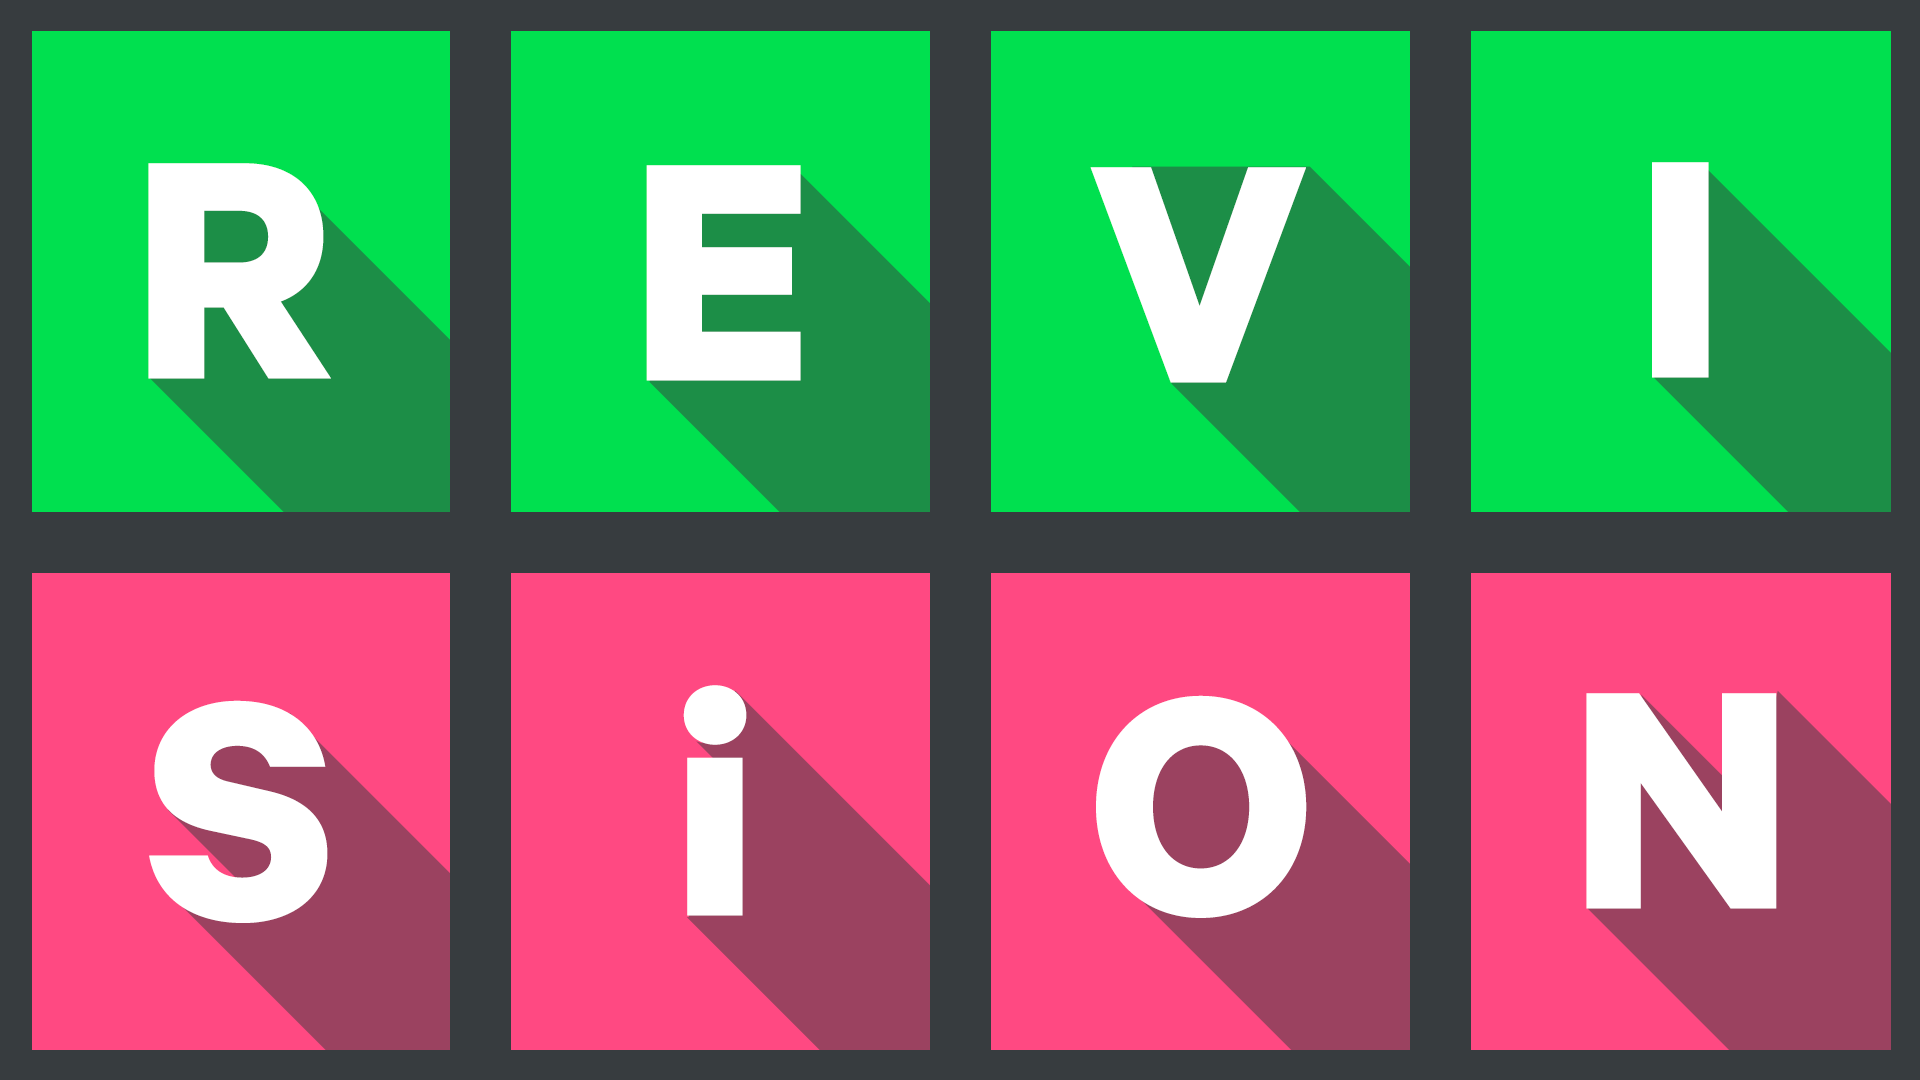
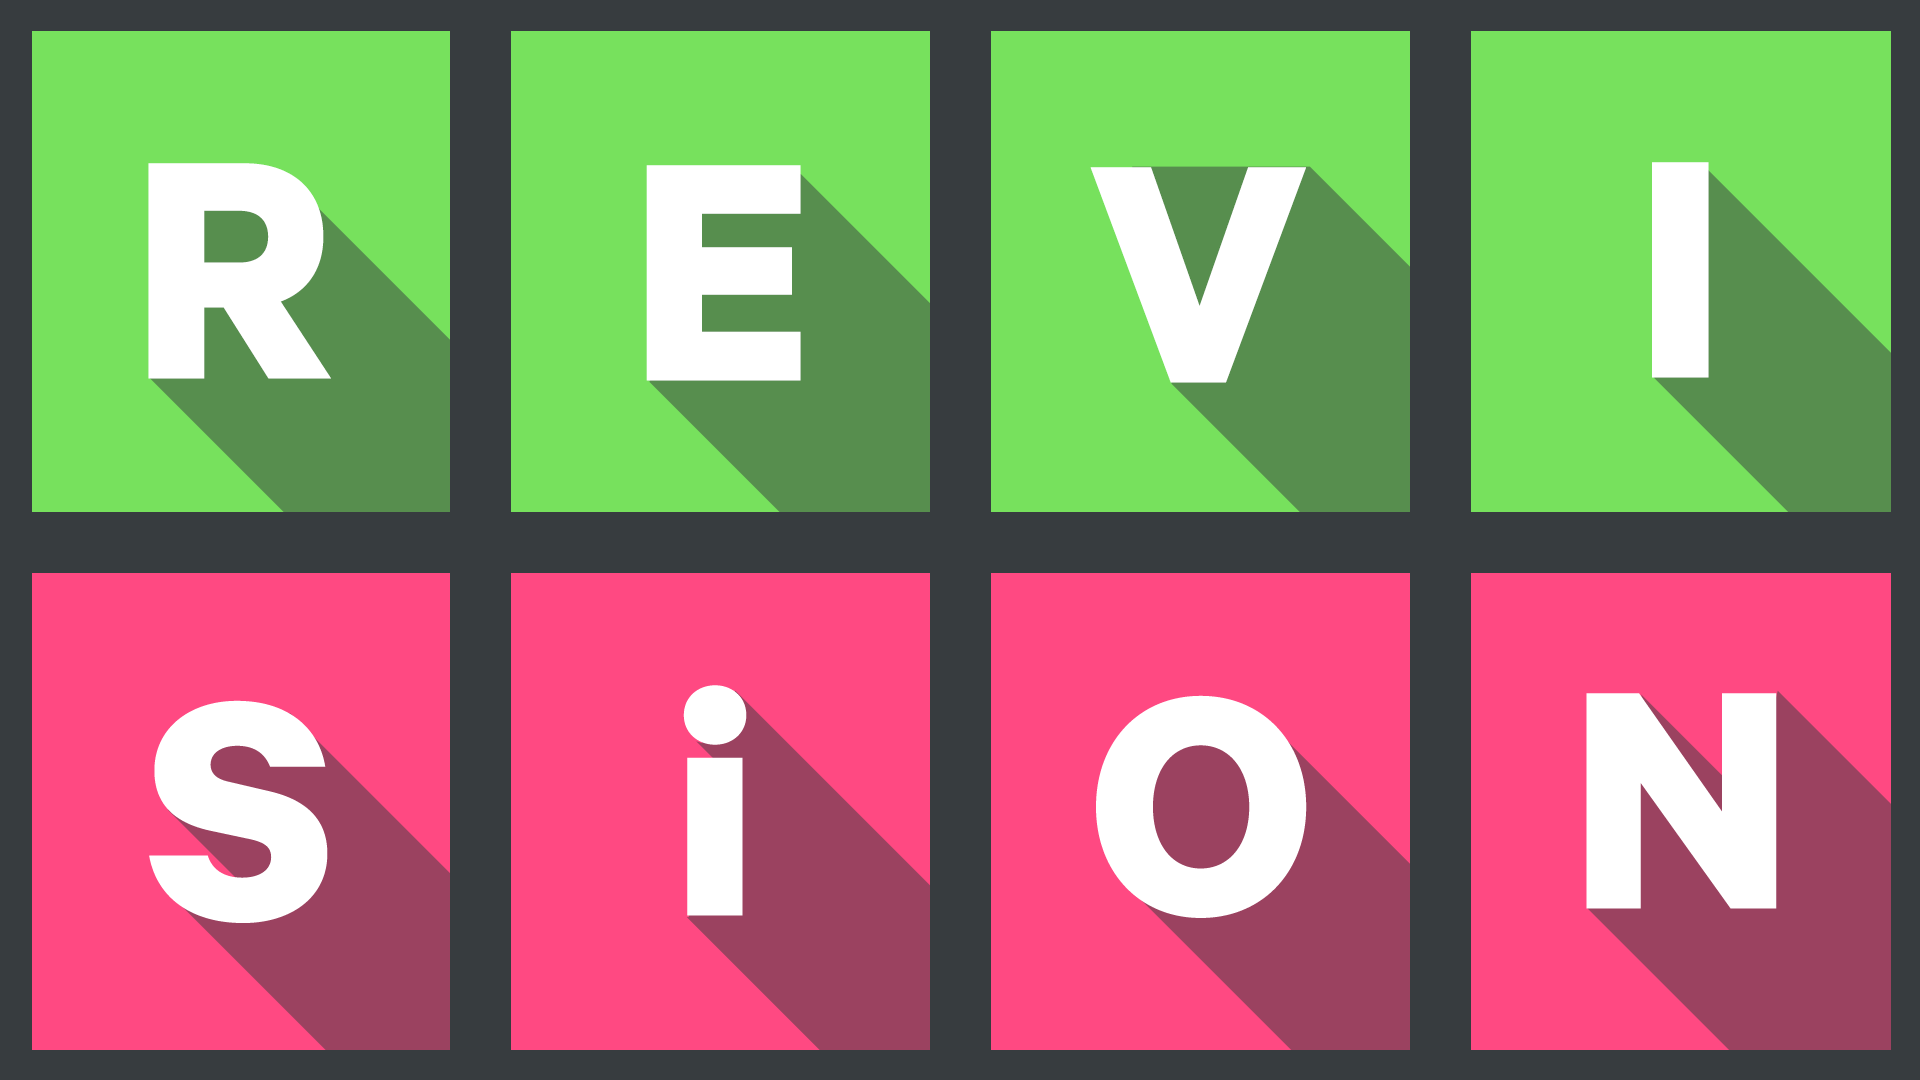
Iterate on schmapple and transition
Also updates testo

diff --git a/src/schmapple.js b/src/schmapple.js
@@ -13,6 +13,18 @@
         }
       });
 
+      this.throb = 0;
+
+      this.cameraX = 0;
+      this.cameraY = 0;
+      this.cameraR = 0;
+      this.cameraDX = 0;
+      this.cameraDY = 0;
+      this.cameraDR = 0;
+      this.cameraDDX = 0;
+      this.cameraDDY = 0;
+      this.cameraDDR = 0;
+
       this.canvas = document.createElement('canvas');
       this.ctx = this.canvas.getContext('2d');
       this.resize();
@@ -108,25 +120,35 @@
         for (let sentence of row) {
           sentence.throb = 0;
 
+          const colorCanvas = document.createElement('canvas');
           const canvas = document.createElement('canvas');
           const ctx = canvas.getContext('2d');
+          const colorCtx = colorCanvas.getContext('2d');
           ctx.font = '40pt brandontext';
           const measurement = ctx.measureText(sentence.text);
           canvas.width = measurement.width;
           canvas.height = TEXT_IMAGE_HEIGHT;
-          ctx.font = '40pt brandontext';
-          ctx.textBaseline = 'middle';
-          ctx.textAlign = 'center';
+          colorCanvas.width = measurement.width;
+          colorCanvas.height = TEXT_IMAGE_HEIGHT;
+          colorCtx.font = ctx.font = '40pt brandontext';
+          colorCtx.textBaseline = ctx.textBaseline = 'middle';
+          colorCtx.textAlign = ctx.textAlign = 'center';
           ctx.clearRect(0, 0, canvas.width, canvas.height);
+          colorCtx.clearRect(0, 0, canvas.width, canvas.height);
           ctx.translate(canvas.width / 2, canvas.height / 2);
+          colorCtx.translate(canvas.width / 2, canvas.height / 2);
           // For future reference
           // const whiteColor = 0xffffff;
           // const grayColor = 0x373c3f;
           // const greenColor = 0x77e15d;
           // const pinkColor = 0xff4982;
-          ctx.fillStyle = '#ff4982';
+          ctx.fillStyle = 'white';
+          //colorCtx.fillStyle = '#ff4982';
+          colorCtx.fillStyle = '#77e15d';
           ctx.fillText(sentence.text, 0, 0);
+          colorCtx.fillText(sentence.text, 0, 0);
           sentence.canvas = canvas;
+          sentence.colorCanvas = colorCanvas;
           accumulatedWidth += canvas.width;
         }
         row.widthWithoutPadding = accumulatedWidth * CANVAS_SCALER;
@@ -134,10 +156,57 @@
         const widthWithPadding = row.widthWithoutPadding + row.length * row.padding;
         row.width = widthWithPadding;
       }
+      this.stabThrob = 0;
+      this.cumulativeStabThrob = 0;
     }
 
     update(frame) {
       this.frame = frame;
+
+      this.throb *= 0.9;
+      if(BEAT) {
+        switch(BEAN) {
+        case 648:
+        case 648 + 6:
+        case 648 + 12:
+        case 648 + 18:
+          this.throb = 1;
+          this.cameraDX = (Math.random() - 0.5) * 5.0;
+          this.cameraDY = (Math.random() - 0.5) * 5.0;
+          this.cameraDR = (Math.random() - 0.5) * 0.1;
+        }
+      }
+
+      if(BEAN >= 648) {
+        this.cameraX += (Math.random() - 0.5) * 2;
+        this.cameraY += (Math.random() - 0.5) * 2;
+      }
+
+      this.cameraDDX = -this.cameraX * 0.1;
+      this.cameraDDY = -this.cameraY * 0.1;
+      this.cameraDDR = -this.cameraR * 0.1;
+      this.cameraDX += this.cameraDDX;
+      this.cameraDY += this.cameraDDY;
+      this.cameraDR += this.cameraDDR;
+      this.cameraDX *= 0.75;
+      this.cameraDY *= 0.75;
+      this.cameraDR *= 0.75;
+      this.cameraX += this.cameraDX;
+      this.cameraY += this.cameraDY;
+      this.cameraR += this.cameraDR;
+
+      this.stabThrob *= 0.95;
+      if(BEAT) {
+        switch(BEAN - 528) {
+        case 0:
+        case 9:
+        case 24:
+        case 24 + 9:
+        case 24 + 9 + 9:
+          this.stabThrob = 1;
+        }
+      }
+      this.cumulativeStabThrob += this.stabThrob;
 
       for (let row of this.texts) {
         row.offset = (row.offset + row.speed) % row.width;
@@ -172,10 +241,22 @@
     render() {
       demo.nm.nodes.bloom.opacity = 0.1;
       this.ctx.fillStyle = '#111';
-      this.ctx.fillRect(0, 0, this.canvas.width, this.canvas.height);
+      this.ctx.fillStyle = '#373c3f';
       this.ctx.save();
+      this.ctx.fillRect(0, 0, this.canvas.width, this.canvas.height);
+      this.ctx.restore();
+      this.ctx.save();
+      const shakeT = lerp(0, 1, (this.frame - FRAME_FOR_BEAN(624)) / (
+        FRAME_FOR_BEAN(624 + 48 - 24) - FRAME_FOR_BEAN(624)));
+      const amount = 2 * easeOut(0, 1, shakeT) * easeIn(1, 0, shakeT);
+      this.ctx.translate(
+        (Math.random() - 0.5) * amount,
+        (Math.random() - 0.5) * amount);
       const alphaMultiplier = Math.max(0.0, Math.min(1.0, (this.frame - 1126) / (1627 - 1126)));
       if (BEAN < 612) {
+        this.ctx.globalAlpha = smoothstep(1, 0,
+            (this.frame - FRAME_FOR_BEAN(600)) / (
+              FRAME_FOR_BEAN(612) - FRAME_FOR_BEAN(600)));
         for (let i = 0; i < this.texts.length; i++) {
           const row = this.texts[i];
           this.ctx.save();
@@ -184,7 +265,7 @@
           for (let j = 0; j < row.length * 2; j++) {
             this.ctx.save();
             const sentence = row[j % row.length];
-            this.ctx.globalAlpha = alphaMultiplier * (0.2 + sentence.throb * 0.8);
+            this.ctx.globalAlpha *= alphaMultiplier * (0.2 + sentence.throb * 0.8);
             const half = (sentence.canvas.width * CANVAS_SCALER + row.padding) / 2;
             sentenceOffset += half;
             const scale = (1 + sentence.throb * 0.2);
@@ -195,13 +276,17 @@
               sentence.canvas,
               -sentence.canvas.width / 2,
               -sentence.canvas.height / 2);
+            this.ctx.globalAlpha *= alphaMultiplier * sentence.throb;
+            this.ctx.drawImage(
+              sentence.colorCanvas,
+              -sentence.colorCanvas.width / 2,
+              -sentence.colorCanvas.height / 2);
             sentenceOffset += half;
             this.ctx.restore();
           }
           this.ctx.restore();
         }
       }
-
 
       if (BEAN >= 420 + beanOffset) {
         this.ctx.save();
@@ -230,44 +315,111 @@
       }
 
       this.ctx.fillStyle = 'white';
+      //this.ctx.fillStyle = '#77e15d';
       this.ctx.beginPath();
 
-      const widthT = (this.frame - FRAME_FOR_BEAN(420 + beanOffset)) / (FRAME_FOR_BEAN(420 + 24 + beanOffset) - FRAME_FOR_BEAN(420 + beanOffset));
+      let widthT = (this.frame - FRAME_FOR_BEAN(420 + beanOffset)) / (FRAME_FOR_BEAN(420 + 9 + beanOffset) - FRAME_FOR_BEAN(420 + beanOffset));
+      let widthT2 = (this.frame - FRAME_FOR_BEAN(420 + 6 + beanOffset)) / (FRAME_FOR_BEAN(420 + 6 + 9 + beanOffset) - FRAME_FOR_BEAN(420 + 6 + beanOffset));
       let outerWidth = easeOut(31, 26, widthT);
       let innerWidth = easeOut(21, 26, widthT);
-      let secondSmallestWidth = easeOut(17.6, 5, widthT);
-      let smallestWidth = easeOut(0, 5, widthT);
+      let secondSmallestWidth = easeOut(17.6, 5, widthT2);
+      let smallestWidth = easeOut(0, 5, widthT2);
 
       const openingT = (this.frame - FRAME_FOR_BEAN(240 + beanOffset)) / (FRAME_FOR_BEAN(240 + 24 + beanOffset) - FRAME_FOR_BEAN(240 + beanOffset));
-      const openingT2 = (this.frame - FRAME_FOR_BEAN(240 + 3 + beanOffset)) / (FRAME_FOR_BEAN(240 + 3 + 24 + beanOffset) - FRAME_FOR_BEAN(240 + 3 + beanOffset));
+      let openingT2 = (this.frame - FRAME_FOR_BEAN(420 + 24)) / (FRAME_FOR_BEAN(420 + 24 + 12) - FRAME_FOR_BEAN(420 + 24));
       outerWidth = elasticOut(0, outerWidth, 1, openingT);
       innerWidth = elasticOut(0, innerWidth, 1, openingT);
-      secondSmallestWidth = elasticOut(0, secondSmallestWidth, 1, openingT2);
-      smallestWidth = elasticOut(0, smallestWidth, 1, openingT2);
+      secondSmallestWidth = elasticOut(0, secondSmallestWidth, 1, lerp(0, 1, openingT2));
+      smallestWidth = elasticOut(0, smallestWidth, 1, lerp(0, 1, openingT2));
 
       const smallThrobT = (this.frame - FRAME_FOR_BEAN(240 + beanOffset)) / (FRAME_FOR_BEAN(240 + 48 + beanOffset) - FRAME_FOR_BEAN(240 + 24 + beanOffset));
 
-      if (BEAN < 612) {
+      if (BEAN >= 420 + 24 && BEAN < 612) {
         secondSmallestWidth = easeOut(secondSmallestWidth * 2, 8, smallThrobT);
       }
 
-      if (BEAN >= 240 + 24 + beanOffset && BEAN < 612) {
+      if (BEAN >= 420 + 24 && BEAN < 612) {
         secondSmallestWidth += this.kickThrob * 8;
       }
 
       if (BEAN < 624) {
         this.ctx.translate(160 / 2, 90 / 2);
+        this.ctx.rotate(this.frame / 60 / 60 * 115 / 4 + 0.05 * this.cumulativeStabThrob);
         this.ctx.moveTo(outerWidth, 0);
-        this.ctx.arc(0, 0, outerWidth, 0, Math.PI * 2);
+        const amount = 200;
+        for(let i = 0; i < amount; i++) {
+          this.ctx.arc(0, 0, Math.max(0, 0.0001 + outerWidth + this.stabThrob * 3 * Math.sin(Math.PI * 2 * i / amount * 10)), Math.PI * 2 * i / amount, Math.PI * 2 * i / amount);
+        }
         this.ctx.moveTo(innerWidth, 0);
-        this.ctx.arc(0, 0, innerWidth, 0, Math.PI * 2);
+        this.ctx.arc(0, 0, 0.0001 + innerWidth, 0, Math.PI * 2);
         this.ctx.moveTo(secondSmallestWidth, 0);
-        this.ctx.arc(0, 0, secondSmallestWidth, 0, Math.PI * 2);
+        this.ctx.arc(0, 0, 0.0001 + secondSmallestWidth, 0, Math.PI * 2);
         this.ctx.moveTo(smallestWidth, 0);
-        this.ctx.arc(0, 0, smallestWidth, 0, Math.PI * 2);
+        this.ctx.arc(0, 0, 0.0001 + smallestWidth, 0, Math.PI * 2);
+
+        this.ctx.globalAlpha = 1;
         this.ctx.fill('evenodd');
       }
 
+      this.ctx.restore();
+  
+      this.ctx.save();
+
+      if(BEAN >= 612 + 24) {
+        this.ctx.fillStyle = '#77e15d';
+        this.ctx.save();
+        this.ctx.translate(80, 45);
+        this.ctx.rotate(this.frame / 60);
+        const scale = easeIn(0.01, 10,
+            (this.frame - FRAME_FOR_BEAN(612 + 24)) / (
+              FRAME_FOR_BEAN(648 + 6) - FRAME_FOR_BEAN(612 + 24)));
+        this.ctx.scale(scale, scale);
+        const originalRadius = 10;
+        for(let i = 0; i < 10; i++) {
+          let radius = originalRadius;
+          const angle = i / 10 * Math.PI * 2;
+          if(i % 2 == 0) {
+            radius *= 2;
+          }
+          this.ctx.lineTo(
+              radius * Math.cos(angle),
+              radius * Math.sin(angle));
+        }
+        this.ctx.fill();
+        this.ctx.restore();
+      }
+
+      if(BEAN >= 648) {
+        this.ctx.save();
+        this.ctx.fillStyle = '#77e15d';
+        this.ctx.translate(80, 45);
+        this.ctx.translate(0, 4);
+        this.ctx.font = 'bold 20pt schmalibre';
+        this.ctx.textBaseline = 'middle';
+        this.ctx.textAlign = 'center';
+        let text = '';
+        if(BEAN >= 648 + 18) {
+          text = 'JUST';
+        } else if(BEAN >= 648 + 12) {
+          text = 'IT\'S';
+        } else if(BEAN >= 648 + 6) {
+          text = 'YEAR';
+        } else {
+          text = 'THIS';
+        }
+        this.ctx.translate(
+          (Math.random() - 0.5) * amount,
+          (Math.random() - 0.5) * amount);
+        this.ctx.translate(this.cameraX, this.cameraY);
+        this.ctx.rotate(this.cameraR);
+        const scale = 1 + this.throb * 0.5;
+        this.ctx.scale(scale, scale);
+        this.ctx.fillStyle = 'rgb(55, 60, 63)';
+        this.ctx.fillText(text, 2, 2);
+        this.ctx.fillStyle = 'white';
+        this.ctx.fillText(text, 0, 0);
+        this.ctx.restore();
+      }
       this.ctx.restore();
 
       this.output.needsUpdate = true;

diff --git a/src/ewerk.js b/src/ewerk.js
@@ -44,7 +44,6 @@
       };
       Loader.loadAjax('res/ewerk.obj', text => {
         const obj = objLoader.parse(text);
-        console.log(obj);
         obj.rotation.y += Math.PI;
         obj.scale.set(10, 10, 10);
         obj.traverse(mesh => {
@@ -200,12 +199,13 @@
       this.scene.add(this.skybox);
 
       this.revisionLogo = new THREE.Mesh(
-        new THREE.PlaneGeometry(545, 545, 1, 1),
+        new THREE.PlaneGeometry(1920, 1080, 1, 1),
         new THREE.MeshBasicMaterial({
-          map: Loader.loadTexture('res/revision_o.png'),
+          map: Loader.loadTexture('res/end.png'),
           transparent: true,
         })
       );
+      this.revisionLogo.scale.set(0.75, 0.75, 0.75);
       this.revisionLogo.rotation.x = -Math.PI / 2;
       this.revisionLogo.position.set(0, 350, 55);
       this.scene.add(this.revisionLogo);
